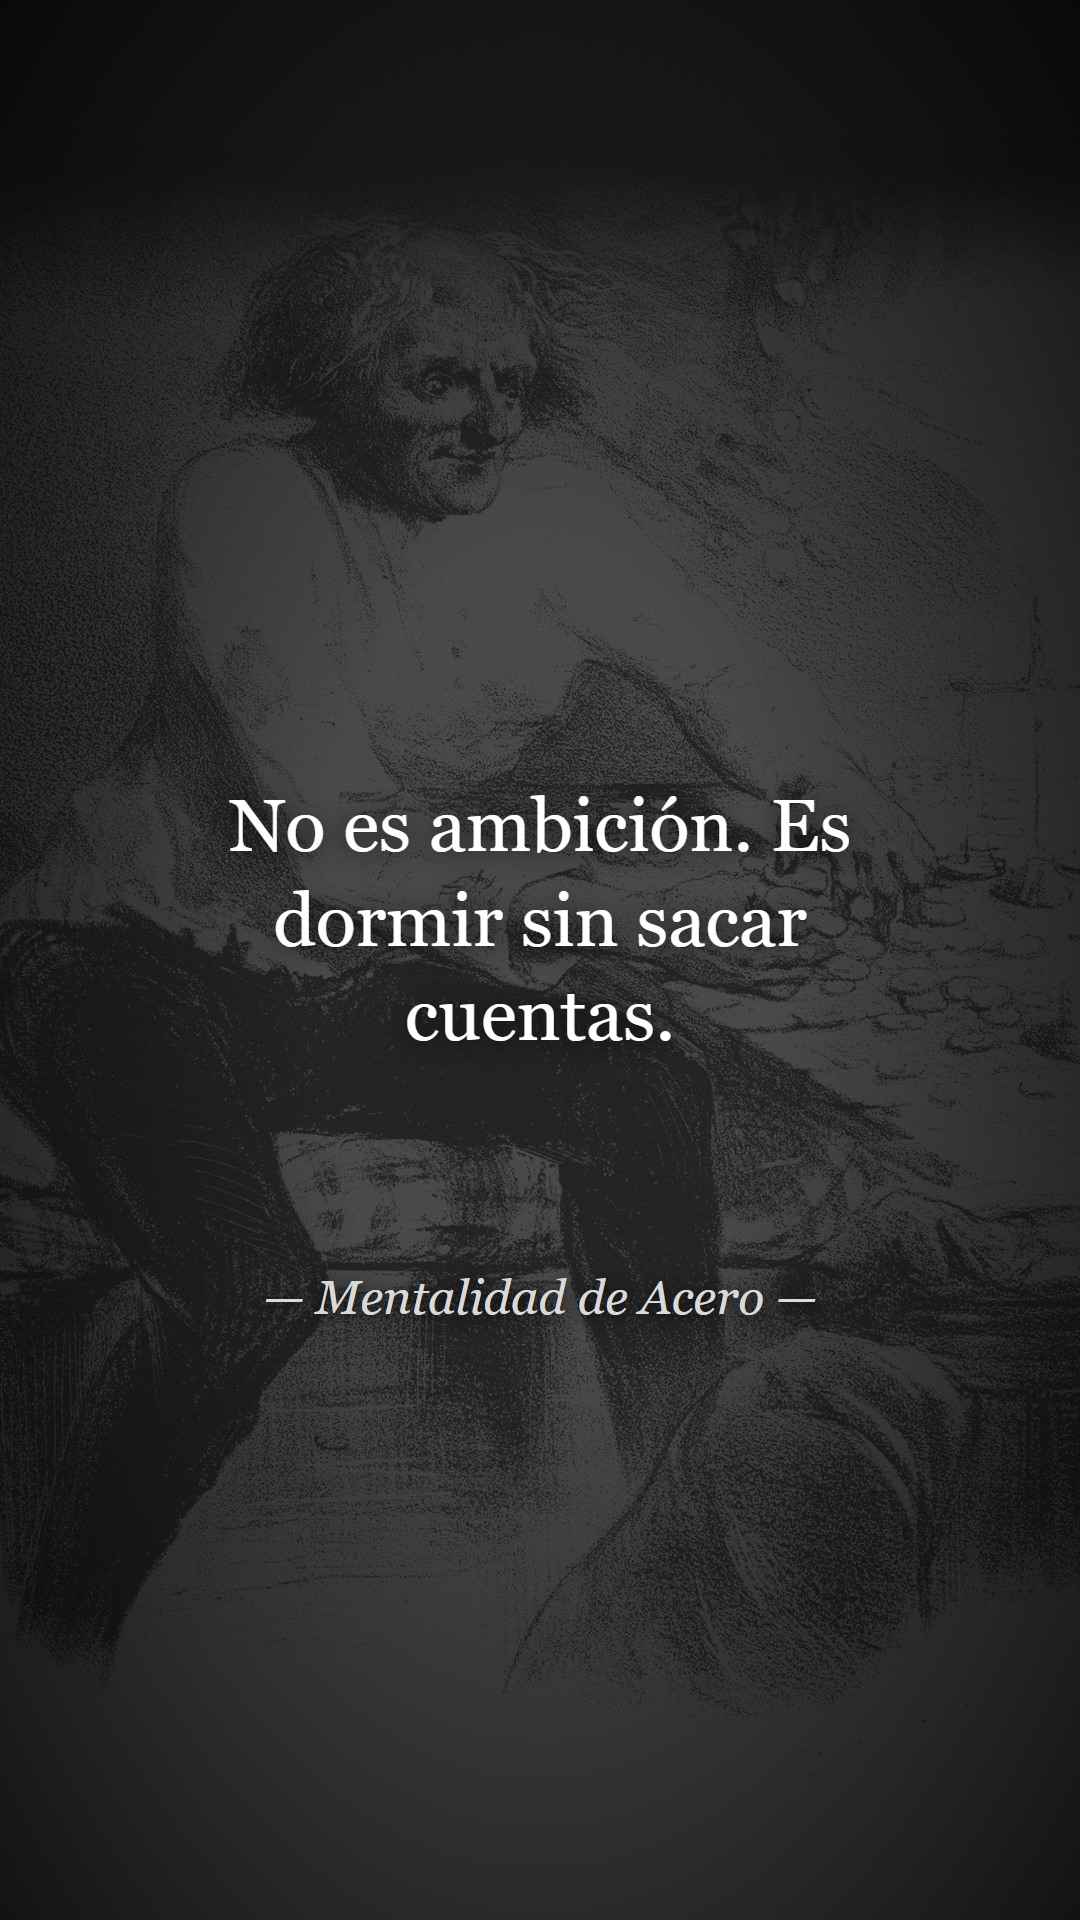
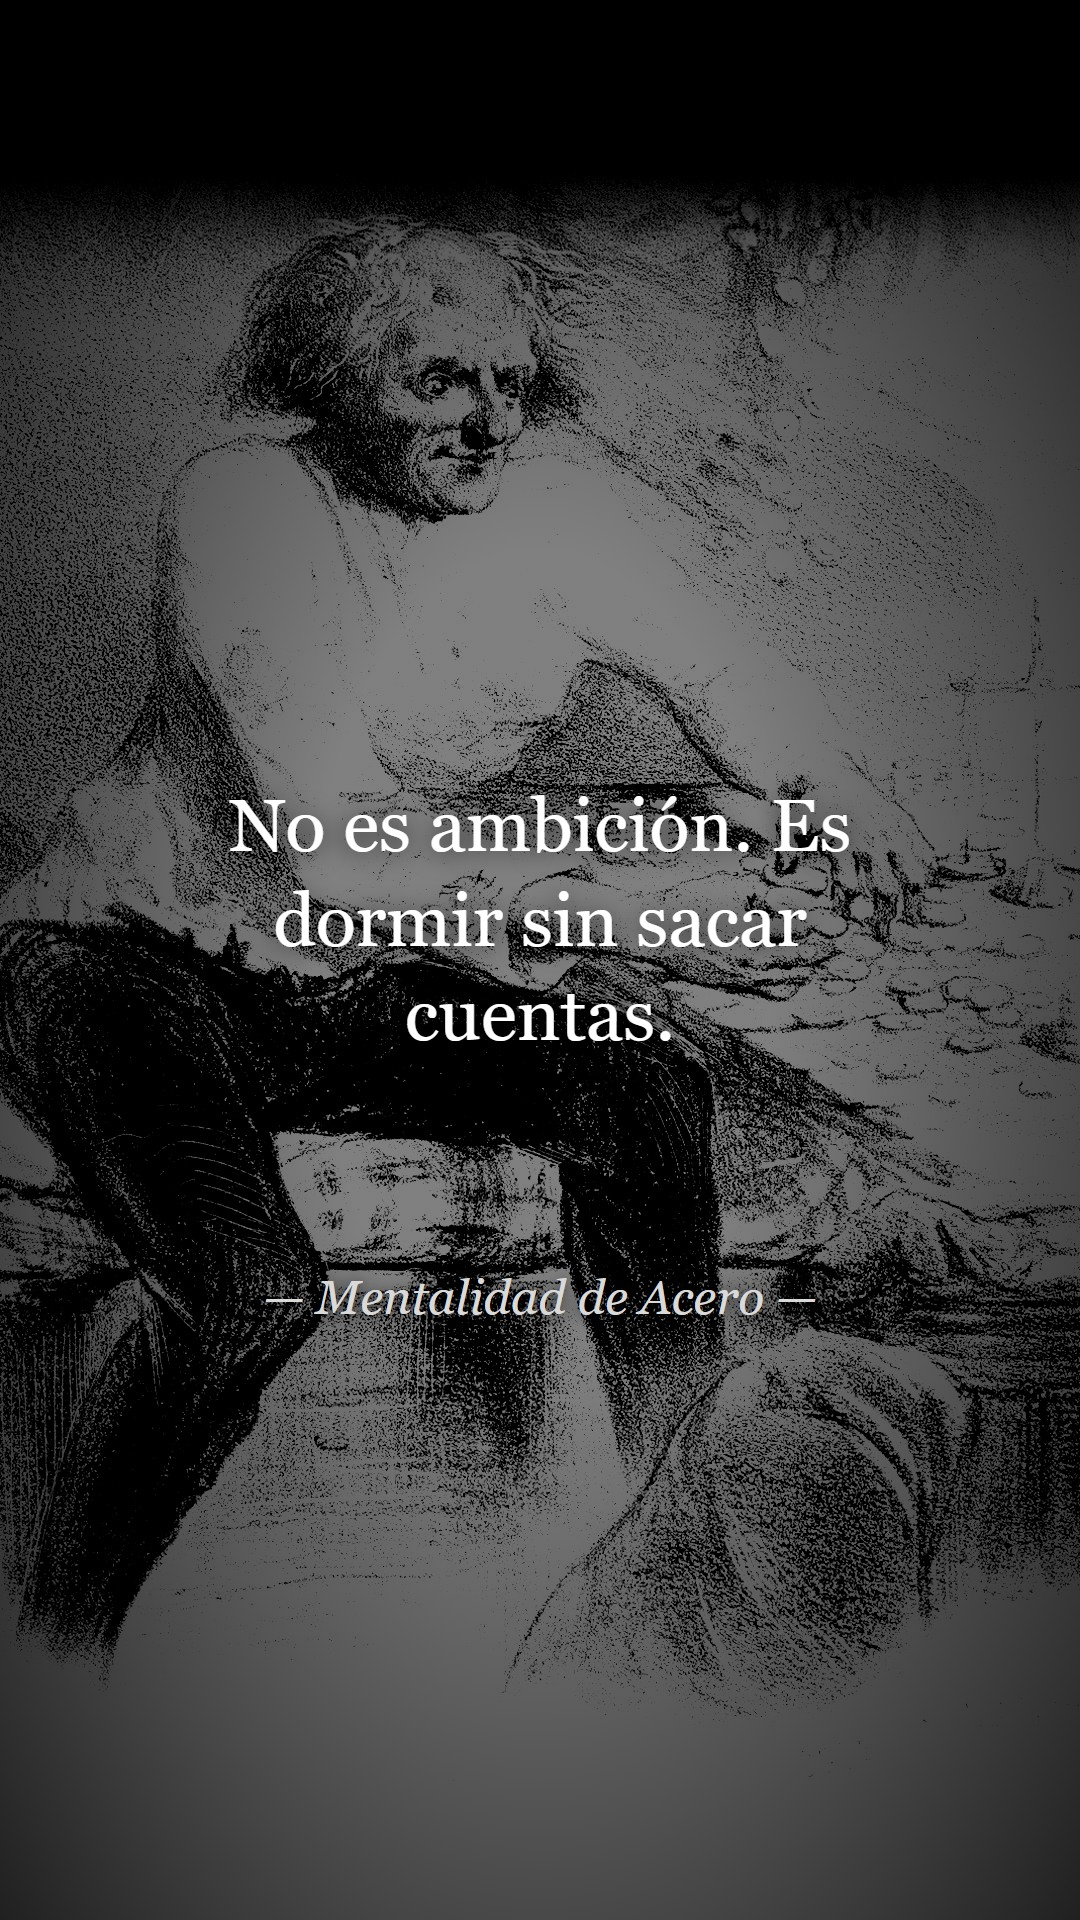
meme-dinero: brighten backgrounds 1 and 3

diff --git a/posts/2026-10-21-meme-dinero/cards.js b/posts/2026-10-21-meme-dinero/cards.js
@@ -1,6 +1,6 @@
 window.CARDS=[
-{q:"<span style=\"font-weight:700\">Todos:</span> el dinero no hace la felicidad.<br><span style=\"font-weight:700\">Yo, un 28 del mes:</span>",a:"Mentalidad de Acero",bg:"file:///D:/proyectos/nahuel-tiktok-legal/tools/tarjetas/fondos/md_beggar.jpg"},
+{q:"<span style=\"font-weight:700\">Todos:</span> el dinero no hace la felicidad.<br><span style=\"font-weight:700\">Yo, un 28 del mes:</span>",a:"Mentalidad de Acero",bg:"file:///D:/proyectos/nahuel-tiktok-legal/tools/tarjetas/fondos/md2_beggar.jpg"},
 {q:"Capaz no. Pero la tranquilidad se cotiza.",a:"Mentalidad de Acero",bg:"file:///D:/proyectos/nahuel-tiktok-legal/tools/tarjetas/fondos/md_goldweigher.jpg"},
-{q:"No es ambición. Es dormir sin sacar cuentas.",a:"Mentalidad de Acero",bg:"file:///D:/proyectos/nahuel-tiktok-legal/tools/tarjetas/fondos/md_nanteuil.jpg"},
+{q:"No es ambición. Es dormir sin sacar cuentas.",a:"Mentalidad de Acero",bg:"file:///D:/proyectos/nahuel-tiktok-legal/tools/tarjetas/fondos/md2_nanteuil.jpg"},
 {q:"Ganar bien no te cambia.<br>Te deja de apurar.",cta:"Compartilo con el que te dice<br>que sos un interesado.",a:"Mentalidad de Acero",inv:true}
 ];
